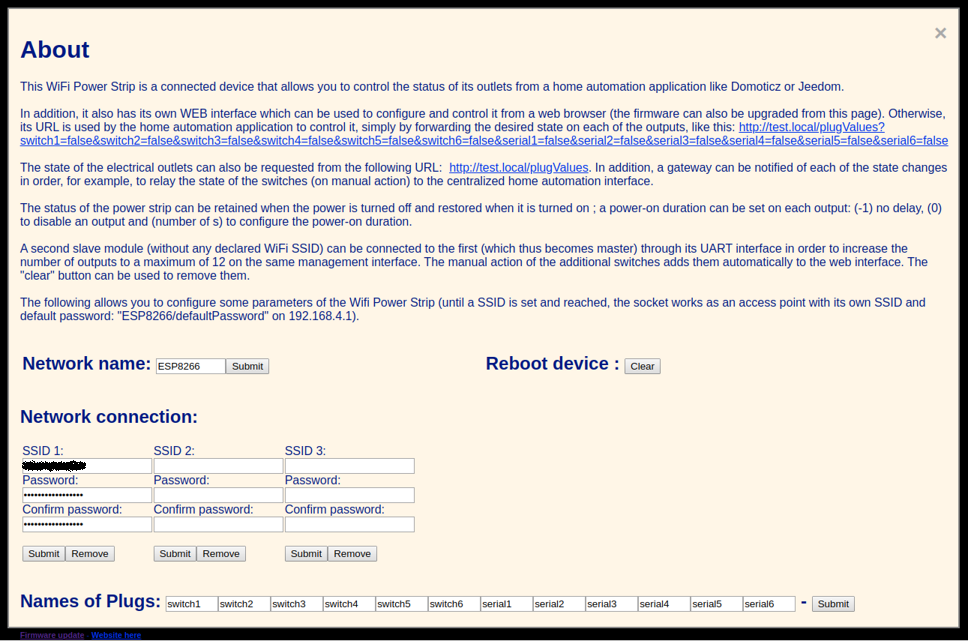
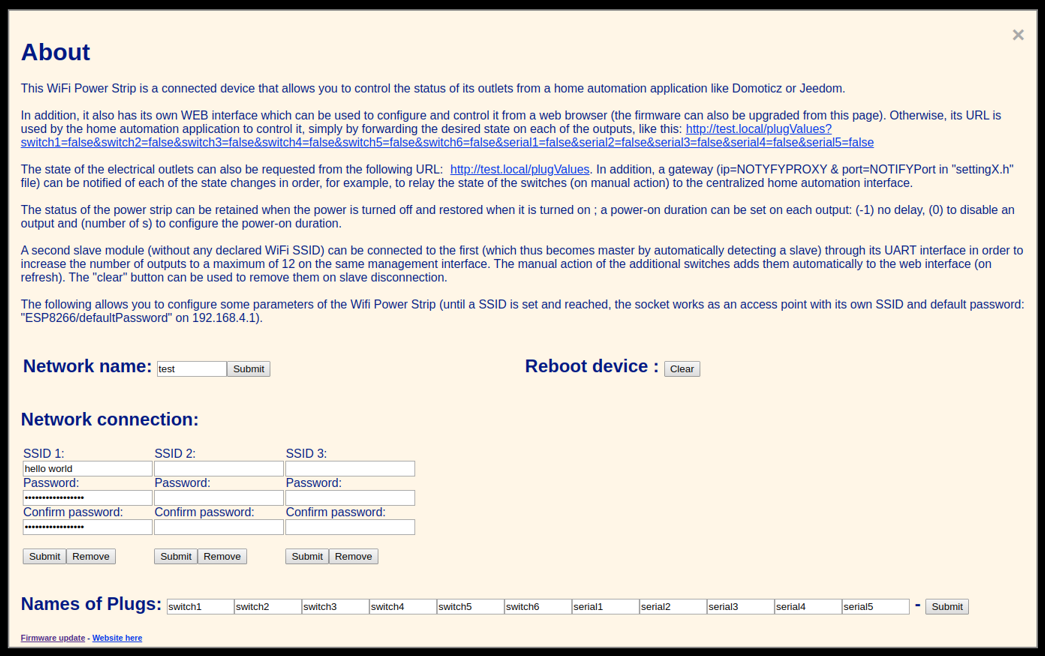
Domoticz notifications on state changes...

diff --git a/main.cpp b/main.cpp
@@ -168,10 +168,10 @@ void sendHTML(bool blankPage=false){
     s+= F("Otherwise, its URL is used by the home automation application to control it, simply by forwarding the desired state on each of the outputs, like this:");
     s+= F("<a id='example1' style='padding:0 0 0 5px;'></a><br><br>");
     s+= F("The state of the electrical outlets can also be requested from the following URL: <a id='example2' style='padding:0 0 0 5px;'></a>.");
-    s+= F(" In addition, a gateway can be notified of each of the state changes in order, for example, to relay the state of the switches (on manual action) to the centralized home automation interface.<br><br>");
+    s+= F(" In addition, a gateway (ip=NOTYFYPROXY & port=NOTIFYPort in \"settingX.h\" file) can be notified of each of the state changes in order, for example, to relay the state of the switches (on manual action) to the centralized home automation interface.<br><br>");
     s+= F("The status of the power strip can be retained when the power is turned off and restored when it is turned on ; a power-on duration can be set on each output: (-1) no delay, (0) to disable an output and (number of s) to configure the power-on duration.<br><br>");
-    s+= F("A second slave module (without any declared WiFi SSID) can be connected to the first (which thus becomes master) through its UART interface in order to increase the number of outputs to a maximum of 12 on the same management interface. ");
-    s+= F("The manual action of the additional switches adds them automatically to the web interface. The \"clear\" button can be used to remove them.<br><br>");
+    s+= F("A second slave module (without any declared WiFi SSID) can be connected to the first (which thus becomes master by automatically detecting a slave) through its UART interface in order to increase the number of outputs to a maximum of 12 on the same management interface. ");
+    s+= F("The manual action of the additional switches adds them automatically to the web interface (on refresh). The \"clear\" button can be used to remove them on slave disconnection.<br><br>");
     s+= F("The following allows you to configure some parameters of the Wifi Power Strip (until a SSID is set and reached, the socket works as an access point with its own SSID and default password: \"");
     s+= String(DEFAULTHOSTNAME) + "/";
 #ifdef DEFAULTWIFIPASS
@@ -656,11 +656,11 @@ void notifyHTTPProxy(String msg){
       DEBUG_print("Notify server \"" + String(NOTIFYPROXY) + ":" + String(port, DEC) + "\" not found...\n");
     if (notifyClient && notifyClient.connected()){
       String s ="\n{\n";
-            s+="  \"id\": \"" + getHostname() + "\",\n";
-            s+="  \"names\": [" + getPlugNames() + "],\n";
-            s+="  \"values\": [" + getPlugValues() + "],\n";
-            s+="  \"msg\": \"" + msg + "\"\n";
-            s+="}\n\n";
+             s+="  \"id\": \"" + getHostname() + "\",\n";
+             s+="  \"names\": [" + getPlugNames() + "],\n";
+             s+="  \"values\": [" + getPlugValues() + "],\n";
+             s+="  \"msg\": \"" + msg + "\"\n";
+             s+="}\n\n";
       // Make a HTTP request:
       notifyClient.println("POST / HTTP/1.1");
       notifyClient.println("Host: " + getHostname());
